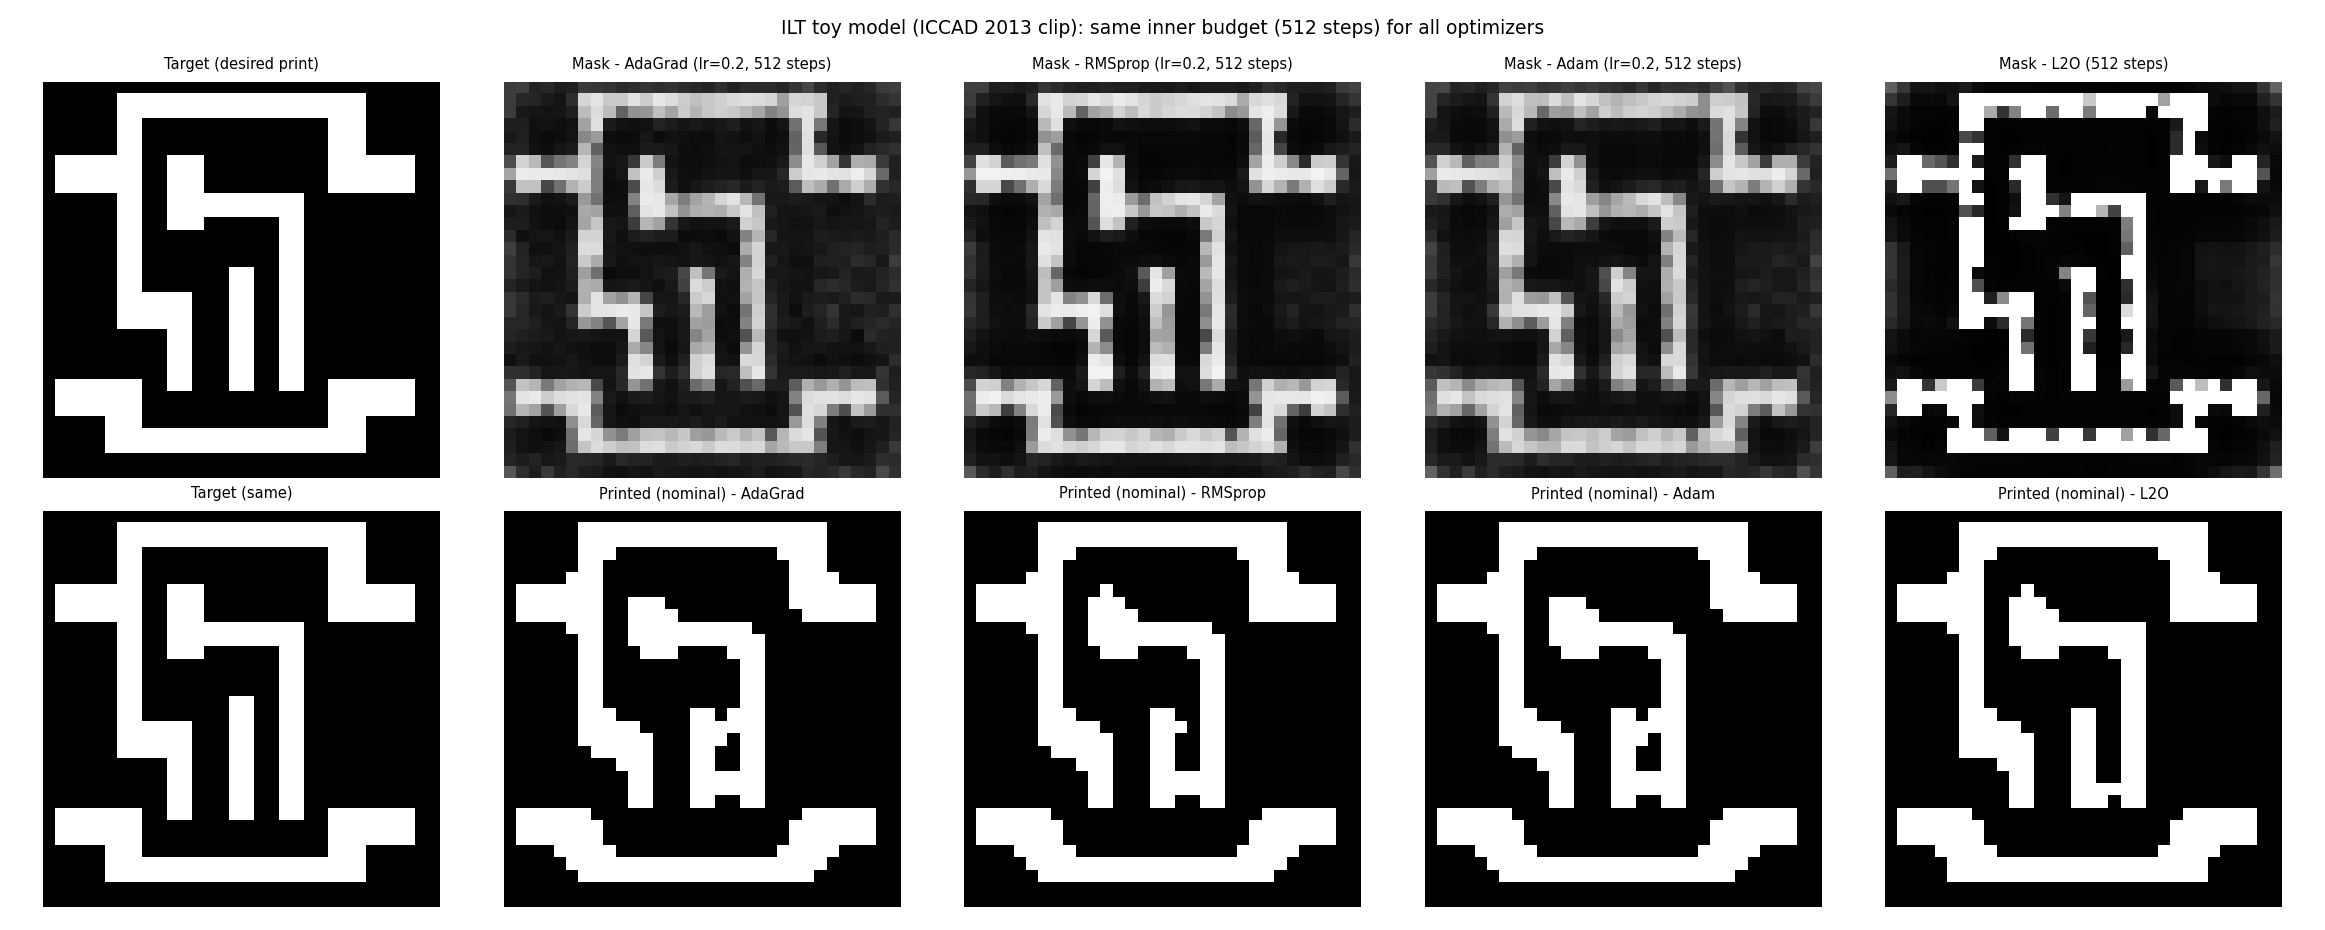
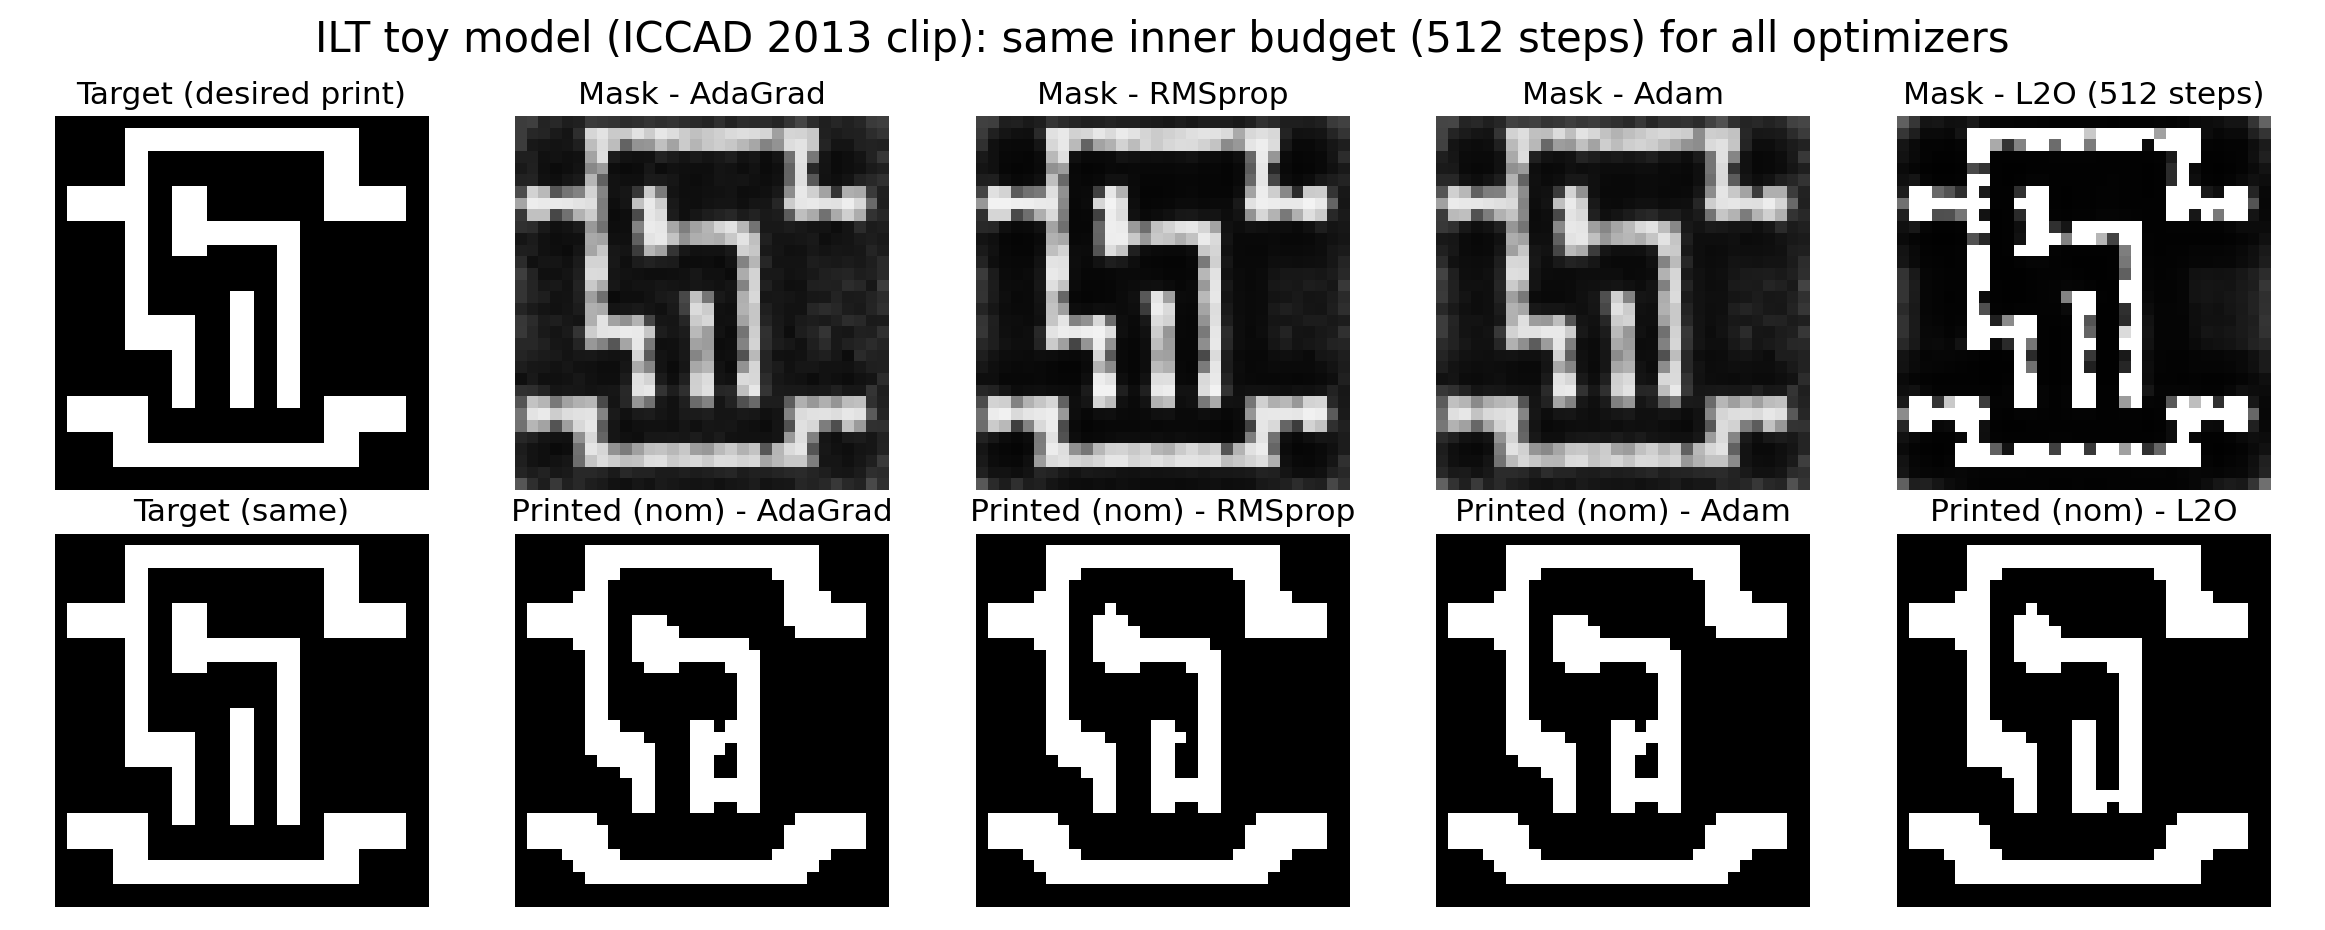
upd fig

Changed region(s): [[0.0, 0.0, 0.991, 0.9667]]

diff --git a/scripts/gen_readme_figures.py b/scripts/gen_readme_figures.py
@@ -334,9 +334,9 @@ def fig_ilt_benchmark_four_way(
     fig, axes = plt.subplots(2, 5, figsize=(15.5, 6.2))
     row0 = [
         ("Target (desired print)", tgt.numpy()),
-        (f"Mask - AdaGrad (lr={best_ada:g}, {n_ada} steps)", m_ada.numpy()),
-        (f"Mask - RMSprop (lr={best_rms:g}, {n_rms} steps)", m_rms.numpy()),
-        (f"Mask - Adam (lr={best_adam:g}, {n_adam} steps)", m_a.numpy()),
+        (f"Mask - AdaGrad", m_ada.numpy()),
+        (f"Mask - RMSprop", m_rms.numpy()),
+        (f"Mask - Adam", m_a.numpy()),
         (f"Mask - L2O ({n_l2o} steps)", m_l.numpy()),
     ]
 
@@ -350,22 +350,22 @@ def fig_ilt_benchmark_four_way(
 
     row1 = [
         ("Target (same)", tgt.numpy()),
-        ("Printed (nominal) - AdaGrad", p_ada.numpy()),
-        ("Printed (nominal) - RMSprop", p_rms.numpy()),
-        ("Printed (nominal) - Adam", p_a.numpy()),
-        ("Printed (nominal) - L2O", p_l.numpy()),
+        ("Printed (nom) - AdaGrad", p_ada.numpy()),
+        ("Printed (nom) - RMSprop", p_rms.numpy()),
+        ("Printed (nom) - Adam", p_a.numpy()),
+        ("Printed (nom) - L2O", p_l.numpy()),
     ]
     for ax, (title, img) in zip(axes[0], row0):
         ax.imshow(img, cmap="gray", vmin=0, vmax=1)
-        ax.set_title(title, fontsize=7)
+        ax.set_title(title, fontsize=15)
         ax.axis("off")
     for ax, (title, img) in zip(axes[1], row1):
         ax.imshow(img, cmap="gray", vmin=0, vmax=1)
-        ax.set_title(title, fontsize=7)
+        ax.set_title(title, fontsize=15)
         ax.axis("off")
     fig.suptitle(
         f"ILT toy model (ICCAD 2013 clip): same inner budget ({n_adam} steps) for all optimizers",
-        fontsize=9,
+        fontsize=20,
     )
     fig.tight_layout()
     out.parent.mkdir(parents=True, exist_ok=True)
